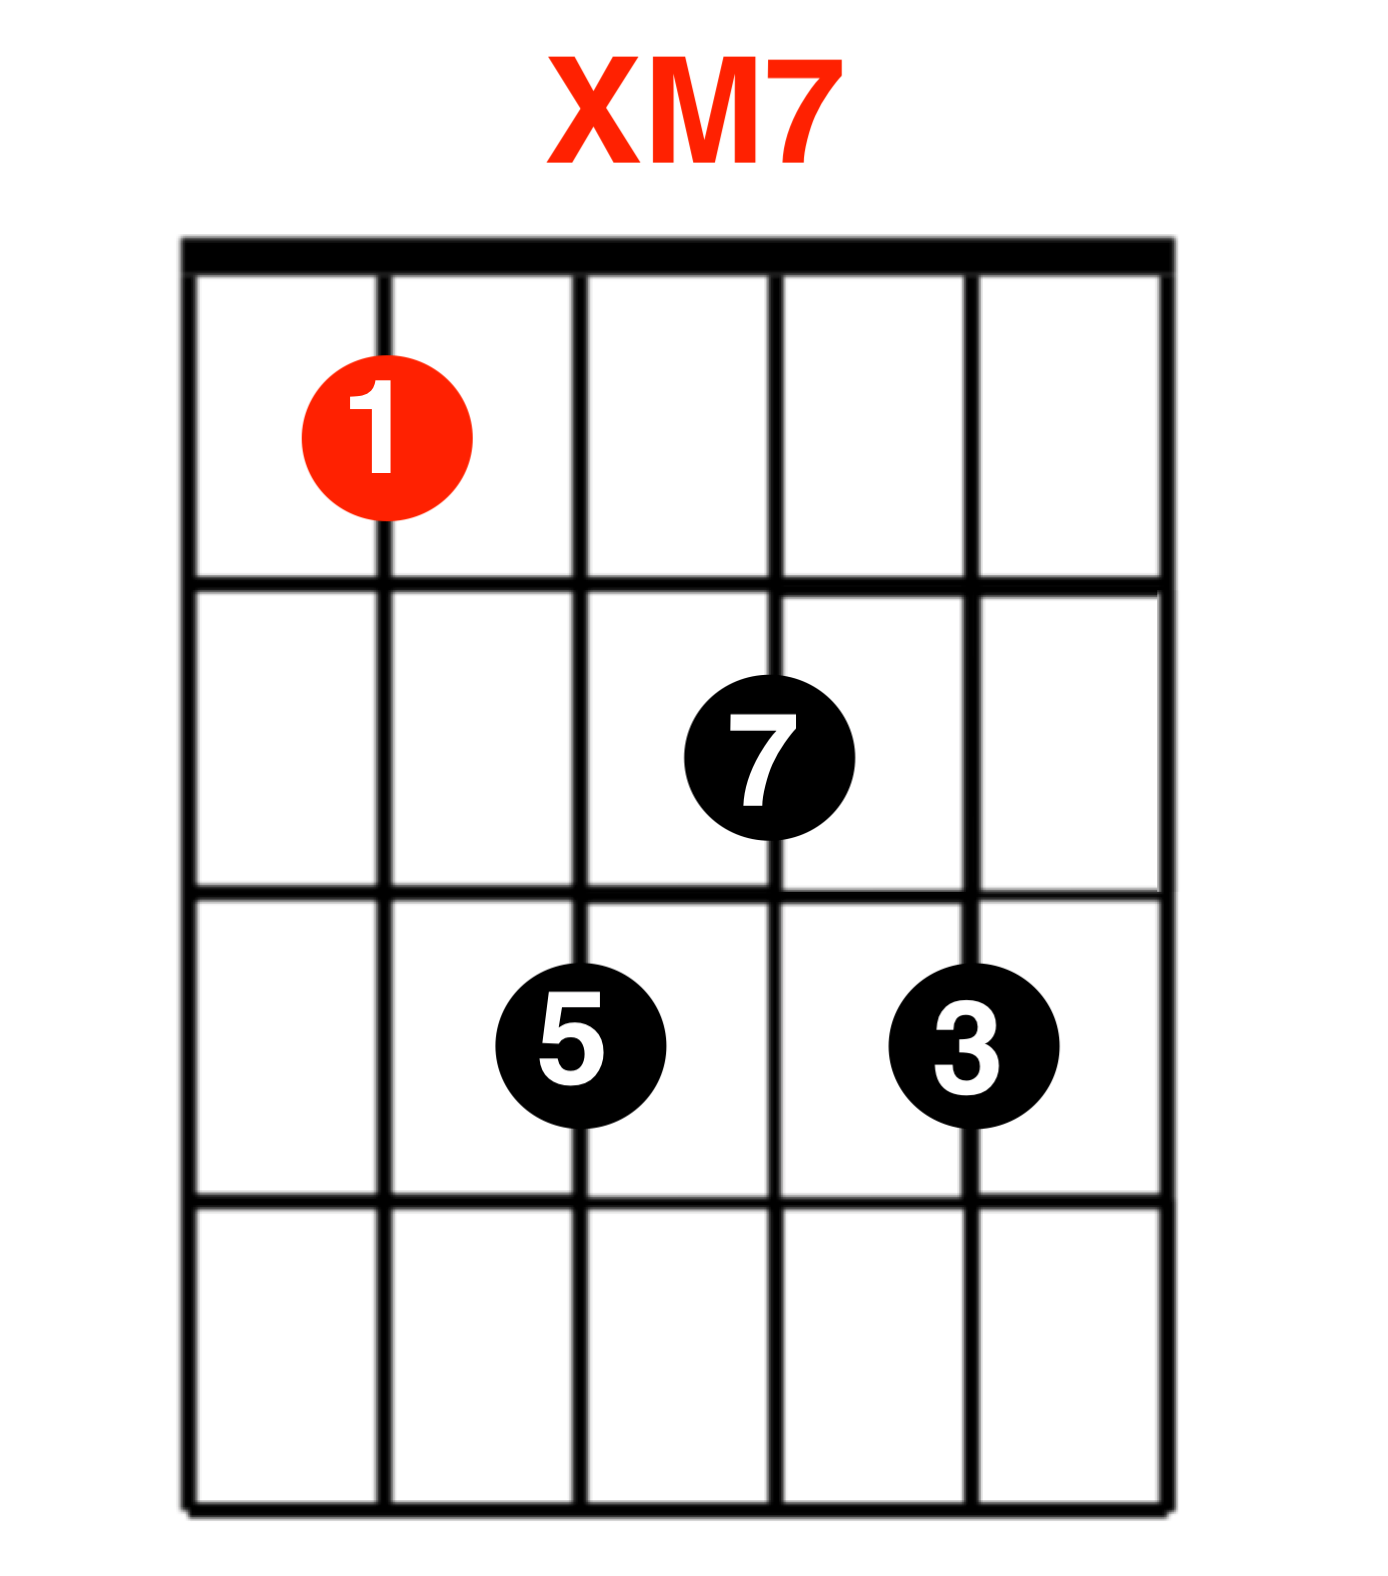
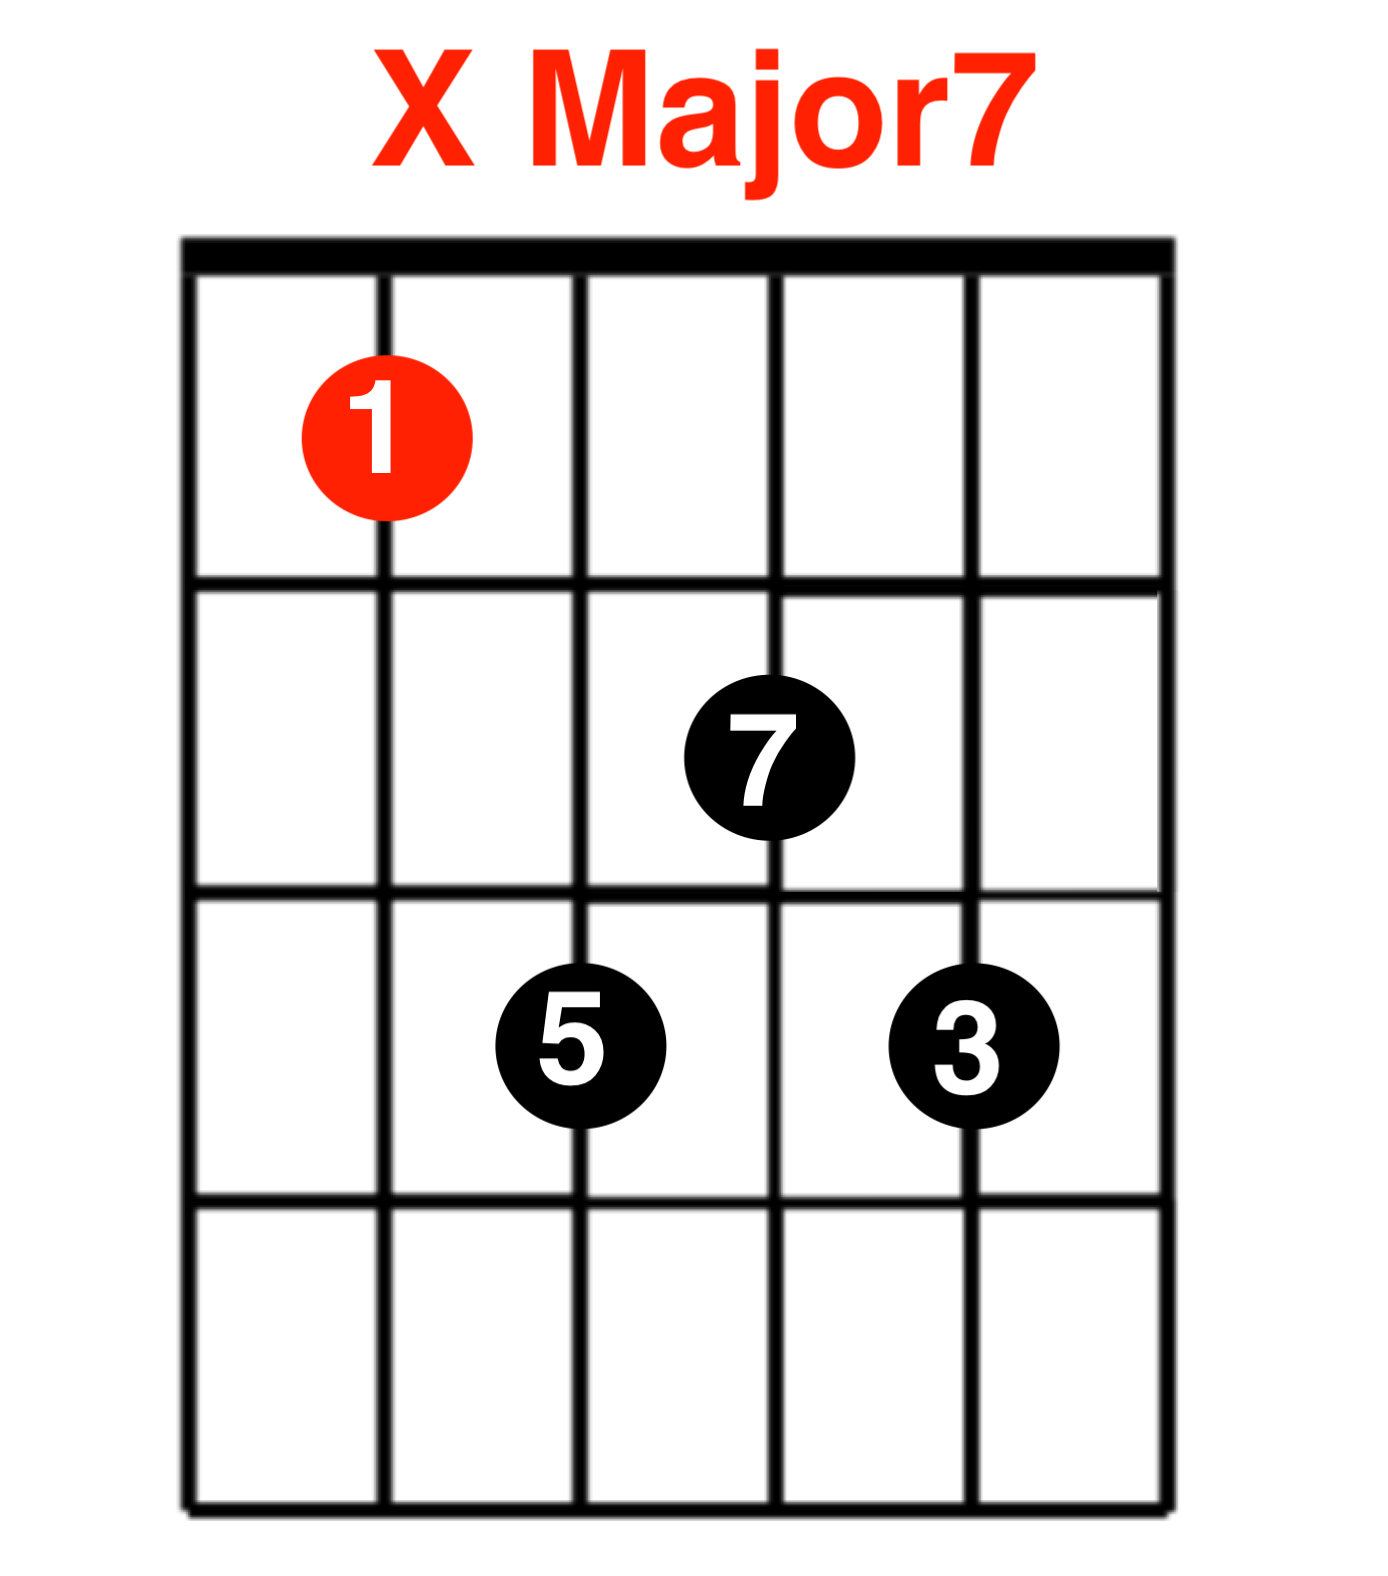
update

Changed region(s): [[0.3718, 0.0311, 0.7435, 0.1244], [0.2788, 0.0311, 0.3408, 0.1244]]

diff --git a/03_Calculate/02_Chord.md b/03_Calculate/02_Chord.md
@@ -1,17 +1,17 @@
 # 和弦推算记忆法
 
-| 根音 | 指型   | Major                   | minor                   | Dominant 7             | minor 7                  | Major 7                  |
-| ---- | ------ | ----------------------- | ----------------------- | ---------------------- | ------------------------ | ------------------------ |
-| 6    | E      | ![](../i/c/6_maj_e.png) | ![](../i/c/6_min_e.png) | ![](../i/c/6_d7_e.png) | ![](../i/c/6_min7_e.png) | ![](../i/c/6_maj7_e.png) |
-| 6    | Simple | ![](../i/s/Xmaj_6.png)  |                         | ![](../i/s/X7_6.png)   | ![](../i/s/Xmin7_6.png)  | ![](../i/s/Xmaj7_6.png)  |
-| 5    | A      | ![](../i/c/5_maj_a.png) | ![](../i/c/5_min_a.png) | ![](../i/c/5_d7_a.png) | ![](../i/c/5_min7_a.png) | ![](../i/c/5_maj7_a.png) |
-| 5    | C      | ![](../i/c/5_maj_c.png) |                         | ![](../i/c/5_d7_c.png) |                          |                          |
-| 5    | Simple | ![](../i/s/Xmaj_5.png)  |                         | ![](../i/s/X7_5.png)   | ![](../i/s/Xmin7_5.png)  | ![](../i/s/Xmaj7_5.png)  |
-| 4    | D      | ![](../i/c/4_maj_d.png) | ![](../i/c/4_min_d.png) | ![](../i/c/4_d7_d.png) | ![](../i/c/4_min7_d.png) | ![](../i/c/4_maj7_d.png) |
-| 4    | F      | ![](../i/c/4_maj_f.png) | ![](../i/c/4_min_f.png) |                        |                          |                          |
-| 3    | Simple | ![](../i/c/3_maj.png)   | ![](../i/c/3_min.png)   |                        |                          |                          |
-| 2    | Simple | ![](../i/c/2_maj.png)   | ![](../i/c/2_min.png)   |                        |                          |                          |
-| 1    | Simple | ![](../i/c/1_maj.png)   | ![](../i/c/1_min.png)   |                        |                          |                          |
+| 根音 | 指型   | X Major                | X minor               | X7                   | X minor7                | X Major7                | 
+| ---- | ------ | ---------------------- | --------------------- | -------------------- | ----------------------- | ----------------------- |
+| 6    | E      | ![](../i/6_maj_e.png)  | ![](../i/6_min_e.png) | ![](../i/6_d7_e.png) | ![](../i/6_min7_e.png)  | ![](../i/6_maj7_e.png)  |
+| 6    | Simple | ![](../i/s/Xmaj_6.png) |                       | ![](../i/s/X7_6.png) | ![](../i/s/Xmin7_6.png) | ![](../i/s/Xmaj7_6.png) |
+| 5    | A      | ![](../i/5_maj_a.png)  | ![](../i/5_min_a.png) | ![](../i/5_d7_a.png) | ![](../i/5_min7_a.png)  | ![](../i/5_maj7_a.png)  |
+| 5    | C      | ![](../i/5_maj_c.png)  |                       | ![](../i/5_d7_c.png) |                         |                         |
+| 5    | Simple | ![](../i/s/Xmaj_5.png) |                       | ![](../i/s/X7_5.png) | ![](../i/s/Xmin7_5.png) | ![](../i/s/Xmaj7_5.png) |
+| 4    | D      | ![](../i/4_maj_d.png)  | ![](../i/4_min_d.png) | ![](../i/4_d7_d.png) | ![](../i/4_min7_d.png)  | ![](../i/4_maj7_d.png)  |
+| 4    | F      | ![](../i/4_maj_f.png)  | ![](../i/4_min_f.png) |                      |                         |                         |
+| 3    | Simple | ![](../i/3_maj.png)    | ![](../i/3_min.png)   |                      |                         |                         |
+| 2    | Simple | ![](../i/2_maj.png)    | ![](../i/2_min.png)   |                      |                         |                         |
+| 1    | Simple | ![](../i/1_maj.png)    | ![](../i/1_min.png)   |                      |                         |                         |
 
 
 | 根音 | 指型   | minor7-5                  | 增和弦               | 减和弦               |
